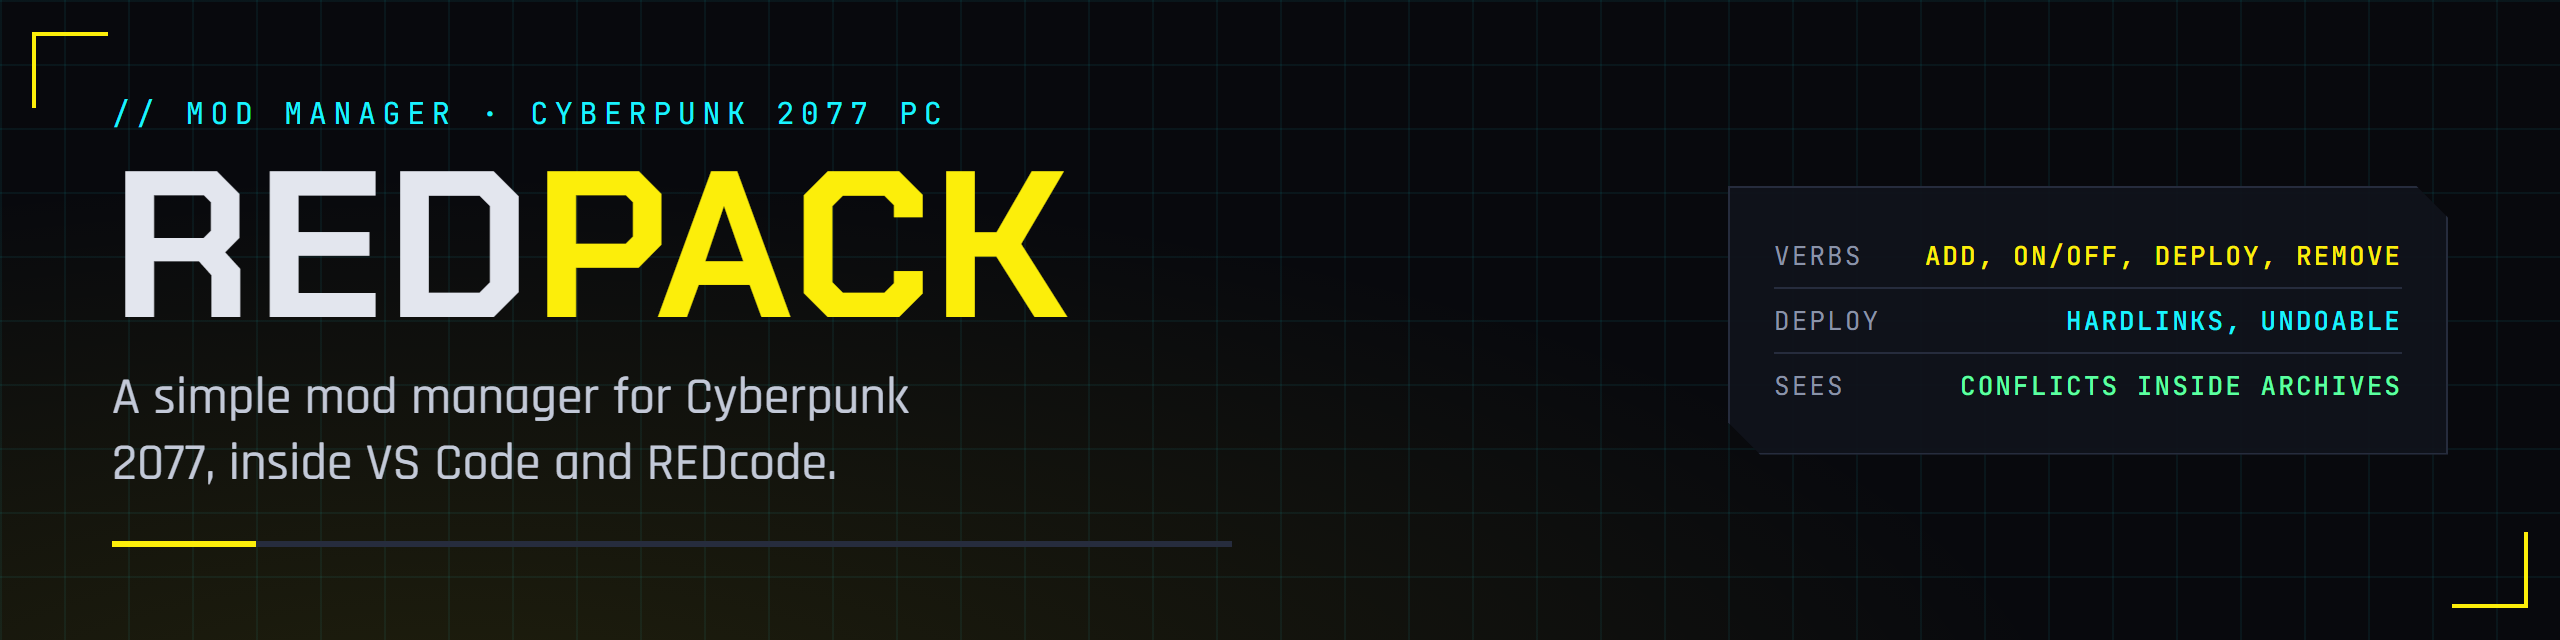
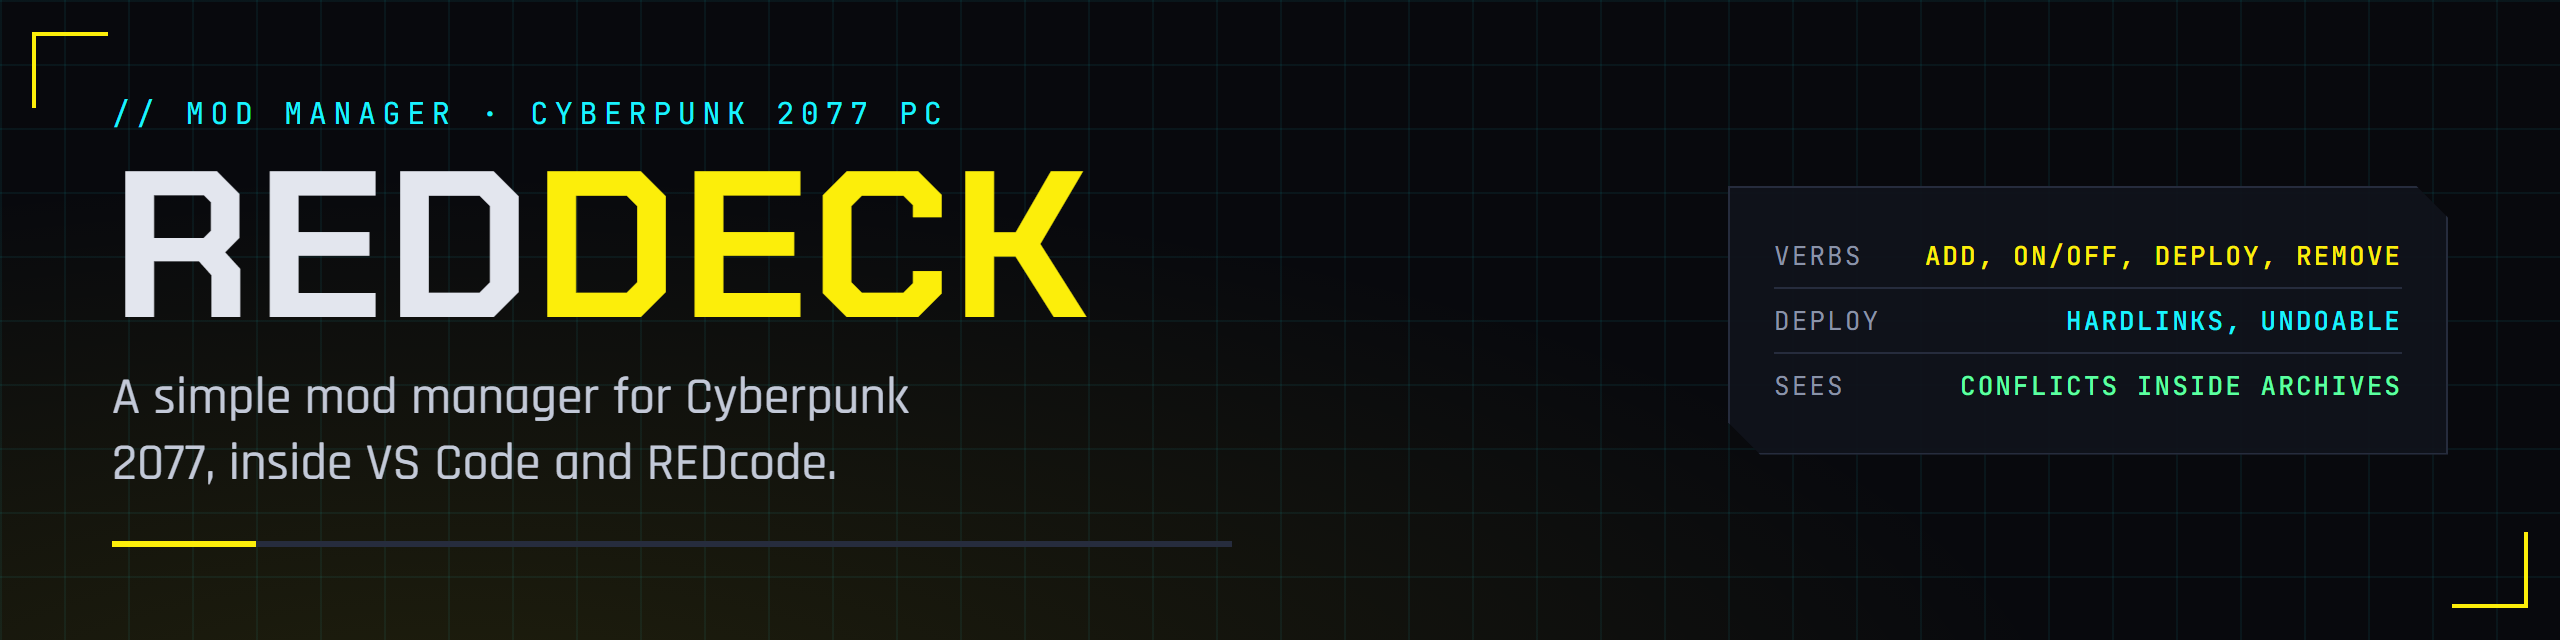
Brand: the headline markup splits the word, so render REDdeck not REDpack
Claude-Session: https://claude.ai/code/session_01QkNW84wQneonKhZEnY9Ci9

Changed region(s): [[0.2188, 0.25, 0.4375, 0.5]]

diff --git a/tools/brand/brand.html b/tools/brand/brand.html
@@ -74,7 +74,7 @@ h1 span { color: var(--yellow); }
 <div class="frame">
   <div>
     <div class="eyebrow">// Mod manager &middot; Cyberpunk 2077 PC</div>
-    <h1>RED<span>pack</span></h1>
+    <h1>RED<span>deck</span></h1>
     <p class="tag">A simple mod manager for Cyberpunk 2077, inside VS Code and REDcode.</p>
     <div class="rule"></div>
   </div>

diff --git a/docs/index.md b/docs/index.md
@@ -1,4 +1,4 @@
-# RED<span class="y">pack</span> docs
+# RED<span class="y">deck</span> docs
 
 REDdeck is a mod manager for Cyberpunk 2077 that runs inside VS Code and REDcode. One list of mods, four verbs: add, turn on or off, deploy, remove. These pages track its setup and, as it grows, how to use it.
 
